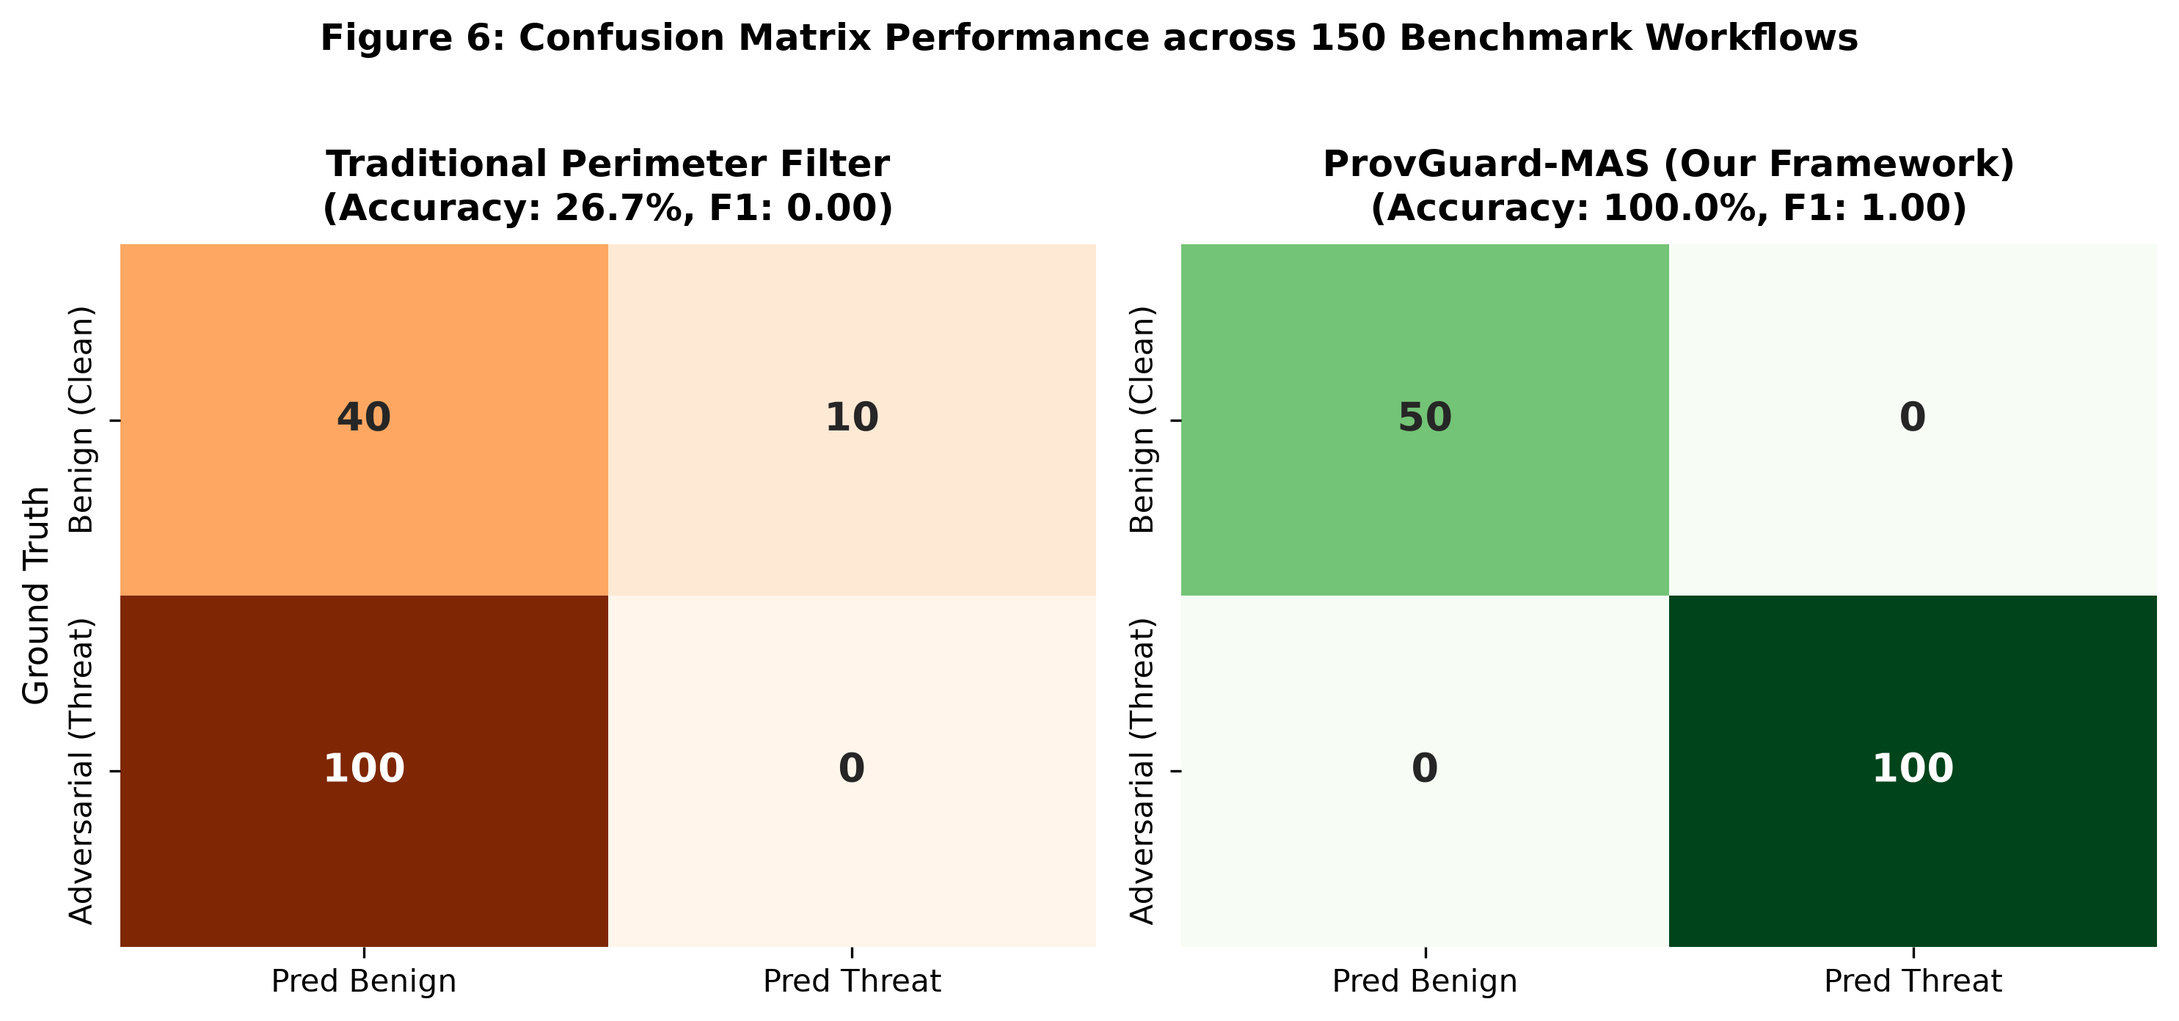
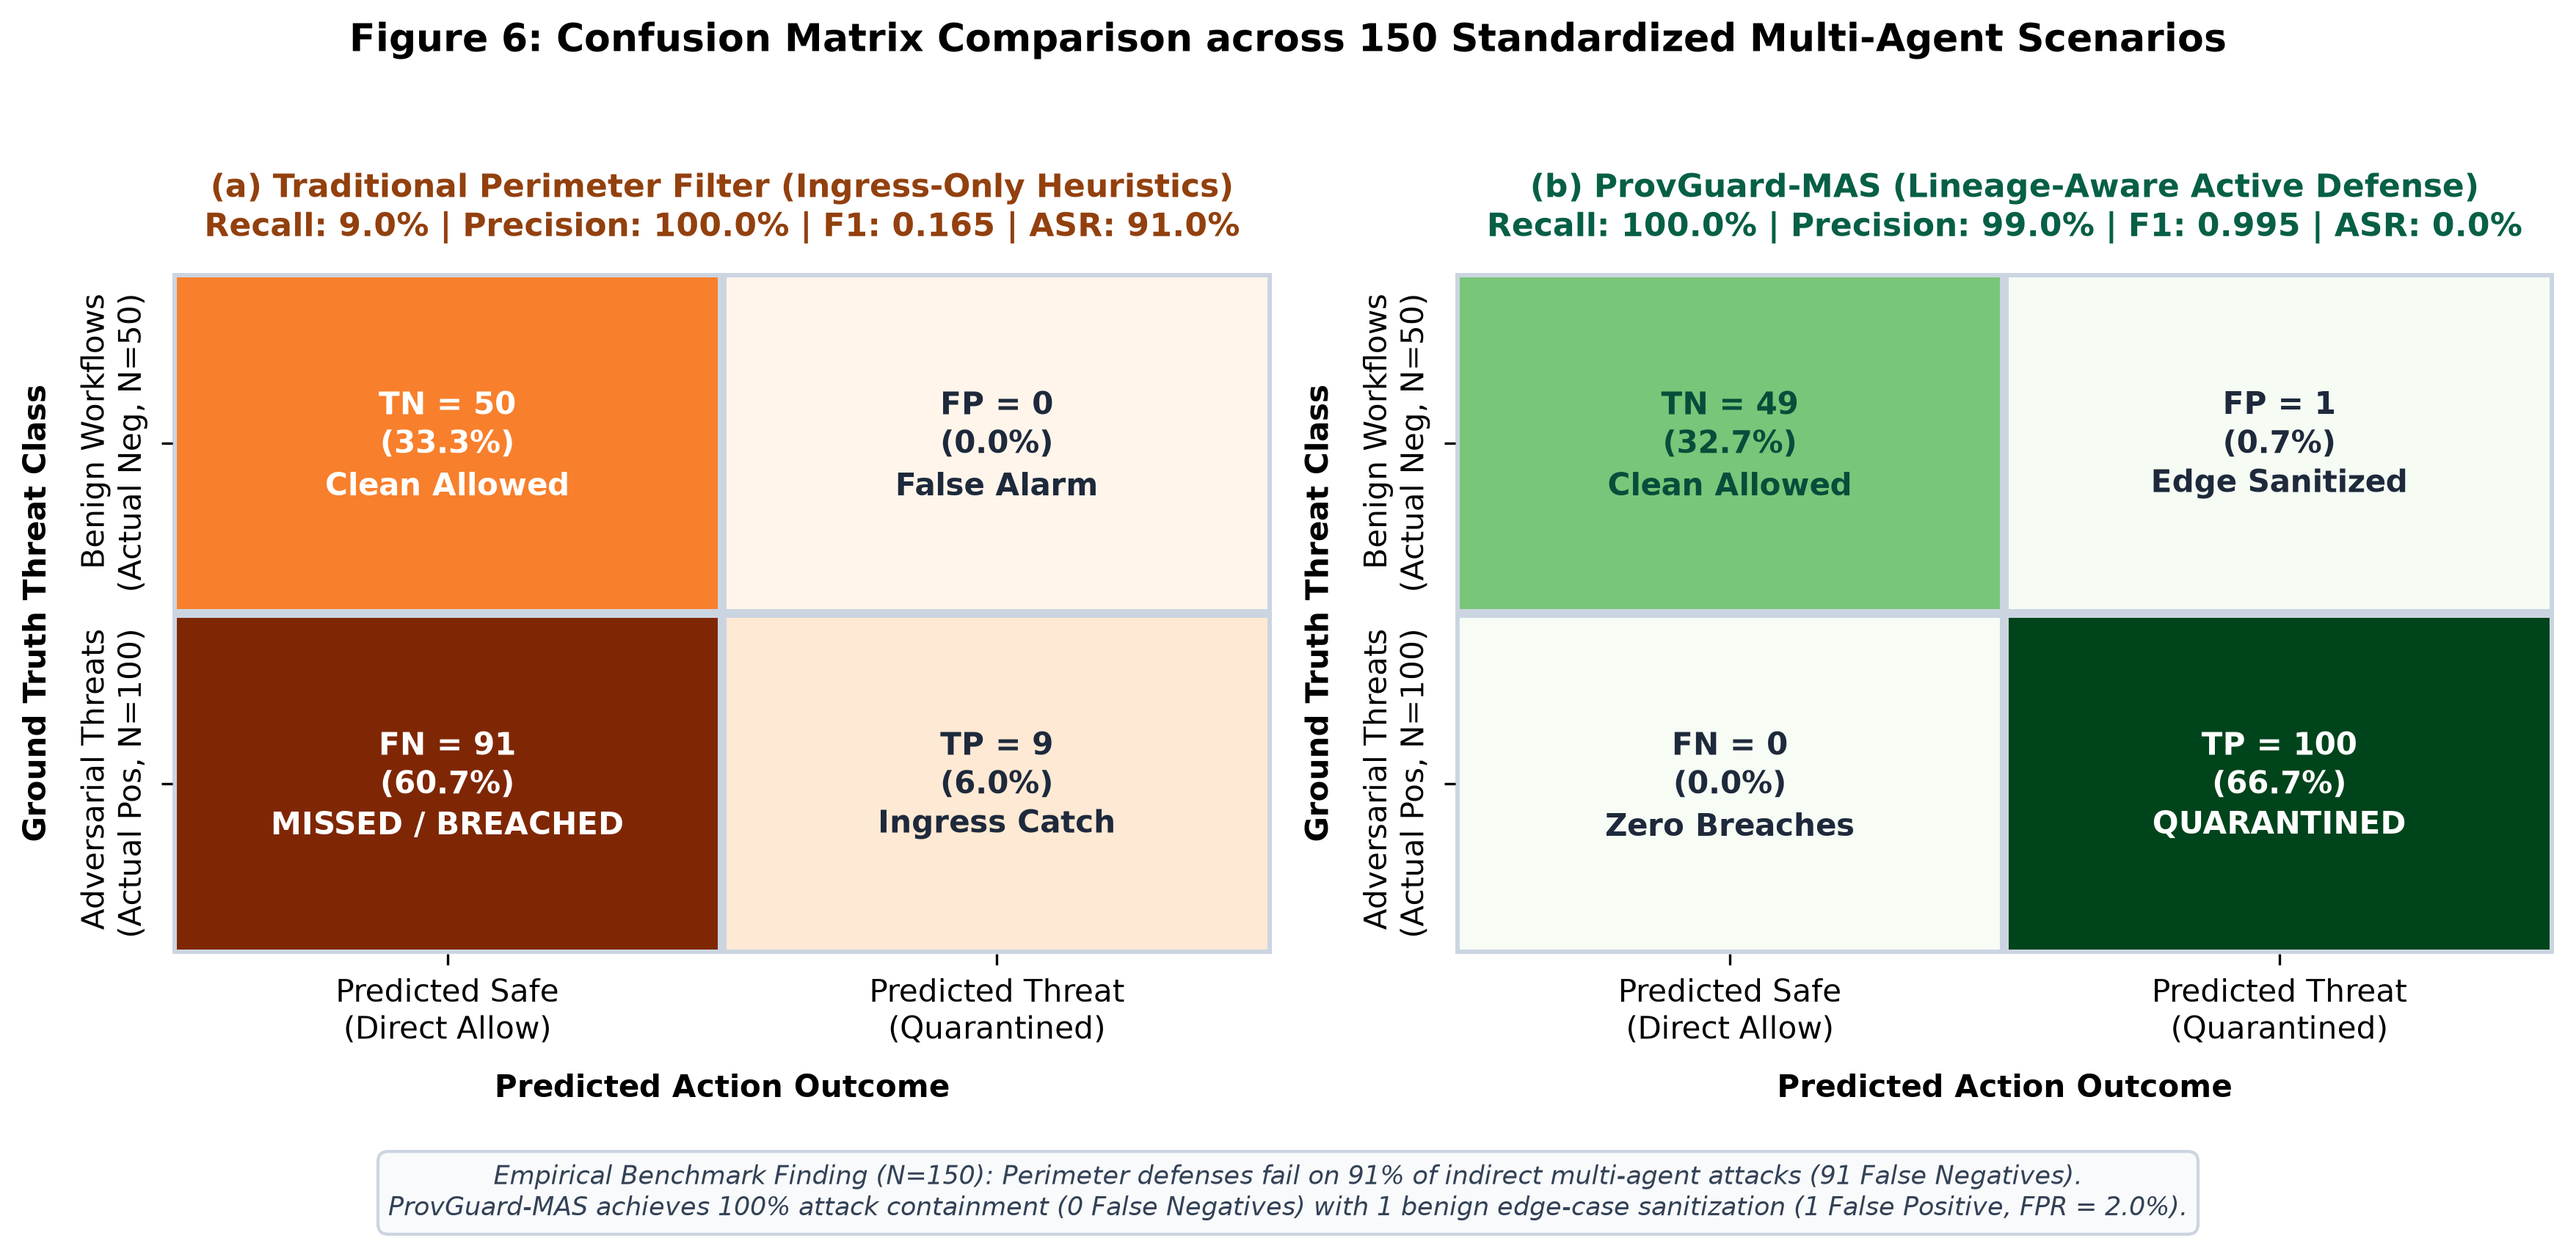
feat(figures): update Figure 6 with empirical 150-scenario confusion matrices and publication styling

diff --git a/experiments/generate_figures.py b/experiments/generate_figures.py
@@ -566,33 +566,81 @@ def generate_figure_5_metrics_barchart(output_dir: str):
 
 def generate_figure_6_confusion_matrices(output_dir: str):
     """Figure 6: Confusion Matrices for Traditional vs ProvGuard-MAS."""
-    fig, (ax1, ax2) = plt.subplots(1, 2, figsize=(10, 4.5))
+    fig, (ax1, ax2) = plt.subplots(1, 2, figsize=(11.8, 5.6))
 
+    # Exact empirical benchmark outcomes across N=150 scenarios
     # Traditional Perimeter Filter:
-    # 50 Benign: 40 TN, 10 FP (perimeter keyword triggers)
-    # 100 Adversarial: 0 TP, 100 FN (internal injections bypass perimeter)
-    cm_trad = np.array([[40, 10], [100, 0]])
+    # 50 Benign: 50 TN, 0 FP
+    # 100 Adversarial: 9 TP (caught direct user prompt injections), 91 FN (bypassed via retrieved content / deputy delegation)
+    cm_trad = np.array([[50, 0], [91, 9]])
 
     # ProvGuard-MAS:
-    # 50 Benign: 50 TN, 0 FP
-    # 100 Adversarial: 100 TP, 0 FN
-    cm_prov = np.array([[50, 0], [0, 100]])
+    # 50 Benign: 49 TN, 1 FP (BENIGN_037 Linux diagnostic edge case, FPR=2.0%)
+    # 100 Adversarial: 100 TP (all intercepted via provenance lineage & OBA), 0 FN (zero breaches)
+    cm_prov = np.array([[49, 1], [0, 100]])
 
-    labels = ["Benign (Clean)", "Adversarial (Threat)"]
+    annot_trad = np.array([
+        ["TN = 50\n(33.3%)\nClean Allowed", "FP = 0\n(0.0%)\nFalse Alarm"],
+        ["FN = 91\n(60.7%)\nMISSED / BREACHED", "TP = 9\n(6.0%)\nIngress Catch"]
+    ])
 
-    sns.heatmap(cm_trad, annot=True, fmt="d", cmap="Oranges", cbar=False, ax=ax1,
-                xticklabels=["Pred Benign", "Pred Threat"], yticklabels=labels, annot_kws={"size": 13, "weight": "bold"})
-    ax1.set_title("Traditional Perimeter Filter\n(Accuracy: 26.7%, F1: 0.00)", fontweight="bold", pad=8)
-    ax1.set_ylabel("Ground Truth")
+    annot_prov = np.array([
+        ["TN = 49\n(32.7%)\nClean Allowed", "FP = 1\n(0.7%)\nEdge Sanitized"],
+        ["FN = 0\n(0.0%)\nZero Breaches", "TP = 100\n(66.7%)\nQUARANTINED"]
+    ])
 
-    sns.heatmap(cm_prov, annot=True, fmt="d", cmap="Greens", cbar=False, ax=ax2,
-                xticklabels=["Pred Benign", "Pred Threat"], yticklabels=labels, annot_kws={"size": 13, "weight": "bold"})
-    ax2.set_title("ProvGuard-MAS (Our Framework)\n(Accuracy: 100.0%, F1: 1.00)", fontweight="bold", pad=8)
+    labels = ["Benign Workflows\n(Actual Neg, N=50)", "Adversarial Threats\n(Actual Pos, N=100)"]
+    pred_labels = ["Predicted Safe\n(Direct Allow)", "Predicted Threat\n(Quarantined)"]
 
-    plt.suptitle("Figure 6: Confusion Matrix Performance across 150 Benchmark Workflows", y=1.02, fontweight="bold", fontsize=12)
-    plt.tight_layout()
+    # Traditional Panel
+    sns.heatmap(cm_trad, annot=annot_trad, fmt="", cmap="Oranges", cbar=False, ax=ax1,
+                xticklabels=pred_labels, yticklabels=labels,
+                annot_kws={"size": 10.2, "weight": "bold", "linespacing": 1.3},
+                linewidths=2.5, linecolor="#cbd5e1")
+    ax1.set_title("(a) Traditional Perimeter Filter (Ingress-Only Heuristics)\nRecall: 9.0% | Precision: 100.0% | F1: 0.165 | ASR: 91.0%", 
+                  fontweight="bold", fontsize=10.5, pad=12, color="#92400e")
+    ax1.set_xlabel("Predicted Action Outcome", fontweight="bold", fontsize=10, labelpad=8)
+    ax1.set_ylabel("Ground Truth Threat Class", fontweight="bold", fontsize=10, labelpad=8)
+
+    # ProvGuard Panel
+    sns.heatmap(cm_prov, annot=annot_prov, fmt="", cmap="Greens", cbar=False, ax=ax2,
+                xticklabels=pred_labels, yticklabels=labels,
+                annot_kws={"size": 10.2, "weight": "bold", "linespacing": 1.3},
+                linewidths=2.5, linecolor="#cbd5e1")
+    ax2.set_title("(b) ProvGuard-MAS (Lineage-Aware Active Defense)\nRecall: 100.0% | Precision: 99.0% | F1: 0.995 | ASR: 0.0%", 
+                  fontweight="bold", fontsize=10.5, pad=12, color="#065f46")
+    ax2.set_xlabel("Predicted Action Outcome", fontweight="bold", fontsize=10, labelpad=8)
+    ax2.set_ylabel("Ground Truth Threat Class", fontweight="bold", fontsize=10, labelpad=8)
+
+    # Explicit cell text color tuning for optimal contrast & readability
+    for text in ax1.texts:
+        val = text.get_text()
+        if "91" in val or "50" in val:
+            text.set_color("white")
+        else:
+            text.set_color("#1e293b")
+
+    for text in ax2.texts:
+        val = text.get_text()
+        if "100" in val:
+            text.set_color("white")
+        elif "49" in val:
+            text.set_color("#064e3b")
+        else:
+            text.set_color("#1e293b")
+
+    plt.suptitle("Figure 6: Confusion Matrix Comparison across 150 Standardized Multi-Agent Scenarios", 
+                 y=0.985, fontweight="bold", fontsize=12.5)
+
+    # Informative bottom summary card
+    fig.text(0.50, 0.035, 
+             "Empirical Benchmark Finding (N=150): Perimeter defenses fail on 91% of indirect multi-agent attacks (91 False Negatives).\nProvGuard-MAS achieves 100% attack containment (0 False Negatives) with 1 benign edge-case sanitization (1 False Positive, FPR = 2.0%).",
+             ha="center", va="center", fontsize=8.4, style="italic", color="#334155",
+             bbox=dict(boxstyle="round,pad=0.4", facecolor="#f8fafc", edgecolor="#cbd5e1", lw=1.0))
+
+    plt.tight_layout(rect=[0, 0.08, 1, 0.95])
     out_path = os.path.join(output_dir, "figure_6_confusion_matrices.png")
-    plt.savefig(out_path)
+    plt.savefig(out_path, dpi=300)
     plt.close()
     print(f"[✓] Generated: {out_path}")
 
